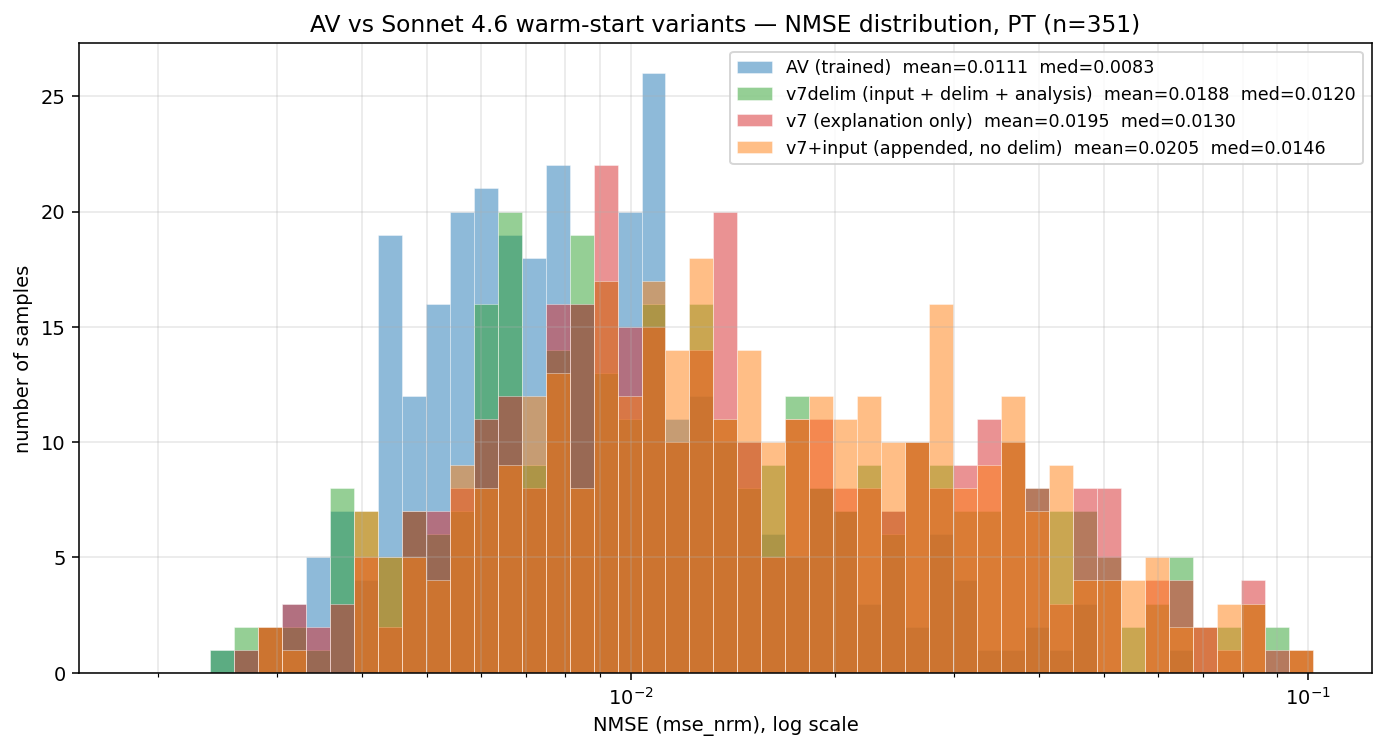
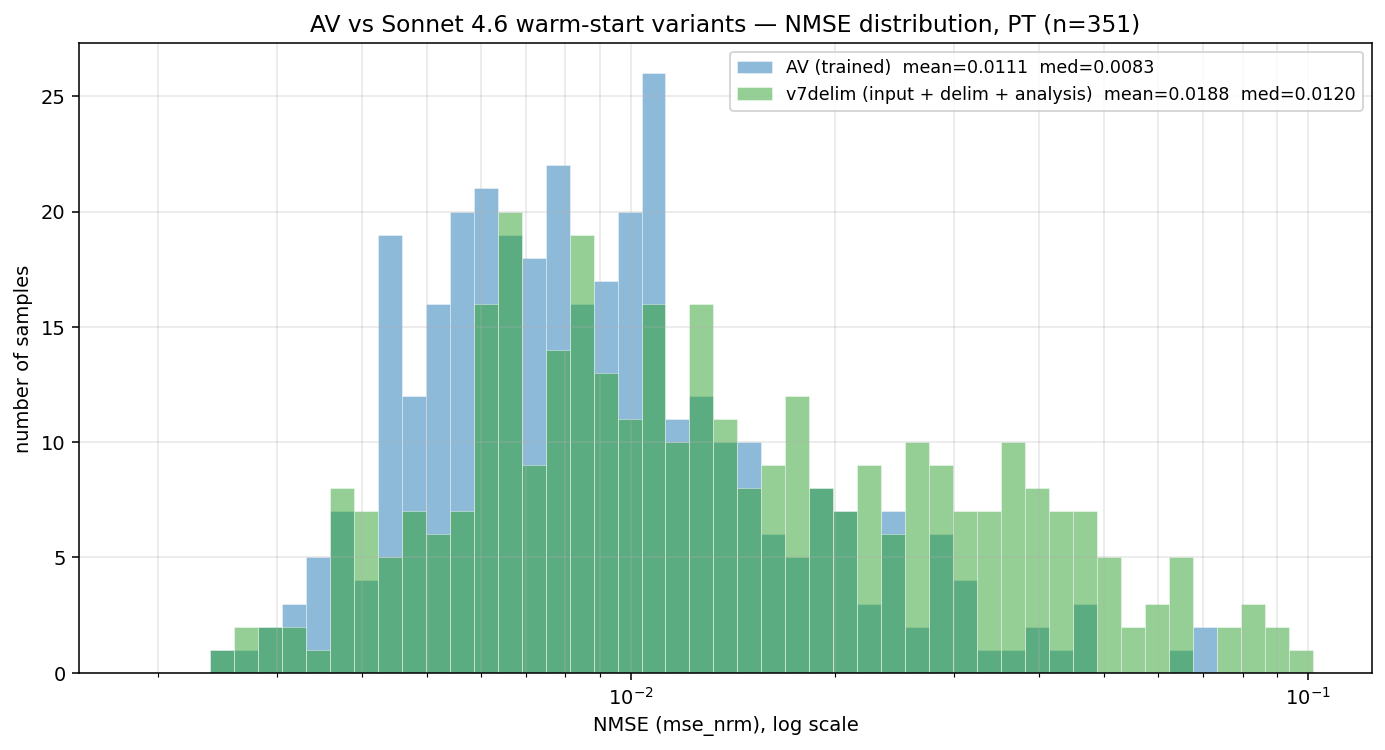
exp: simplify variants histogram to AV vs v7delim only

Changed region(s): [[0.1552, 0.2147, 0.9625, 0.92], [0.5278, 0.1227, 0.9625, 0.2147]]

diff --git a/exp/plot_av_vs_v7_variants_hist.py b/exp/plot_av_vs_v7_variants_hist.py
@@ -61,8 +61,6 @@ def main():
     series = [
         (av,  "AV (trained)",                       "#1f77b4"),
         (v7d, "v7delim (input + delim + analysis)", "#2ca02c"),
-        (v7,  "v7 (explanation only)",              "#d62728"),
-        (v7p, "v7+input (appended, no delim)",      "#ff7f0e"),
     ]
     for arr, label, color in series:
         ax.hist(arr, bins=bins, alpha=0.5, color=color,
